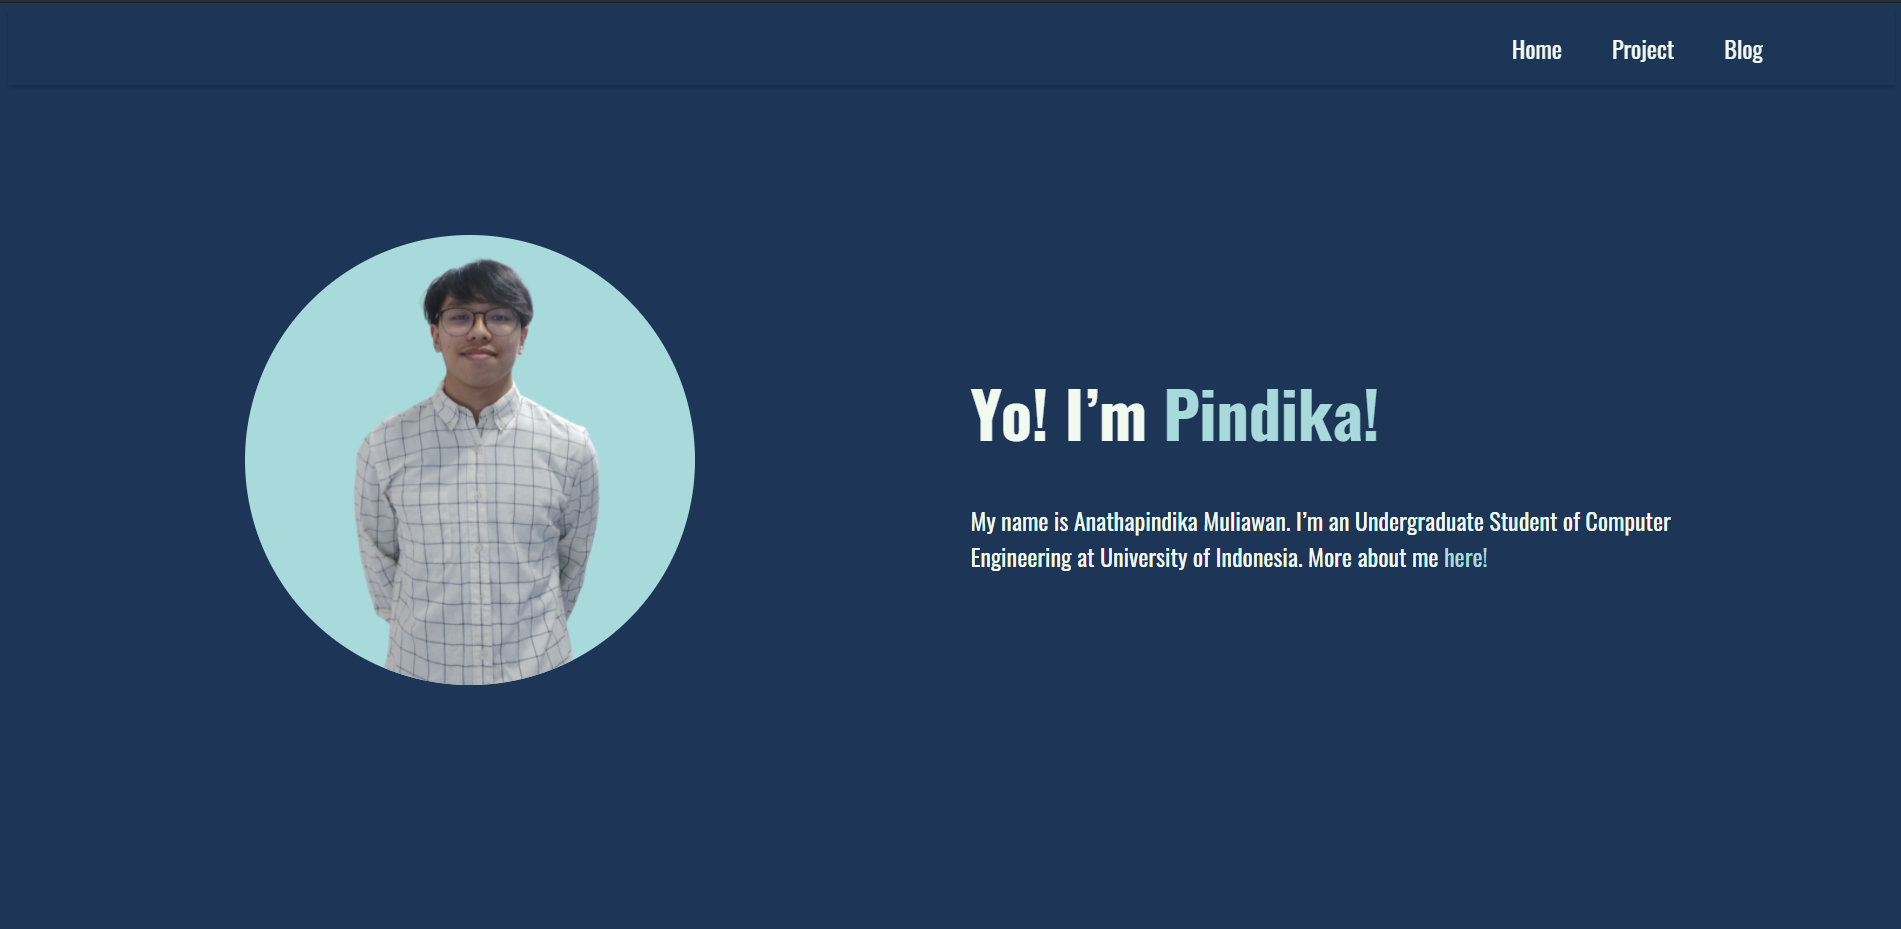
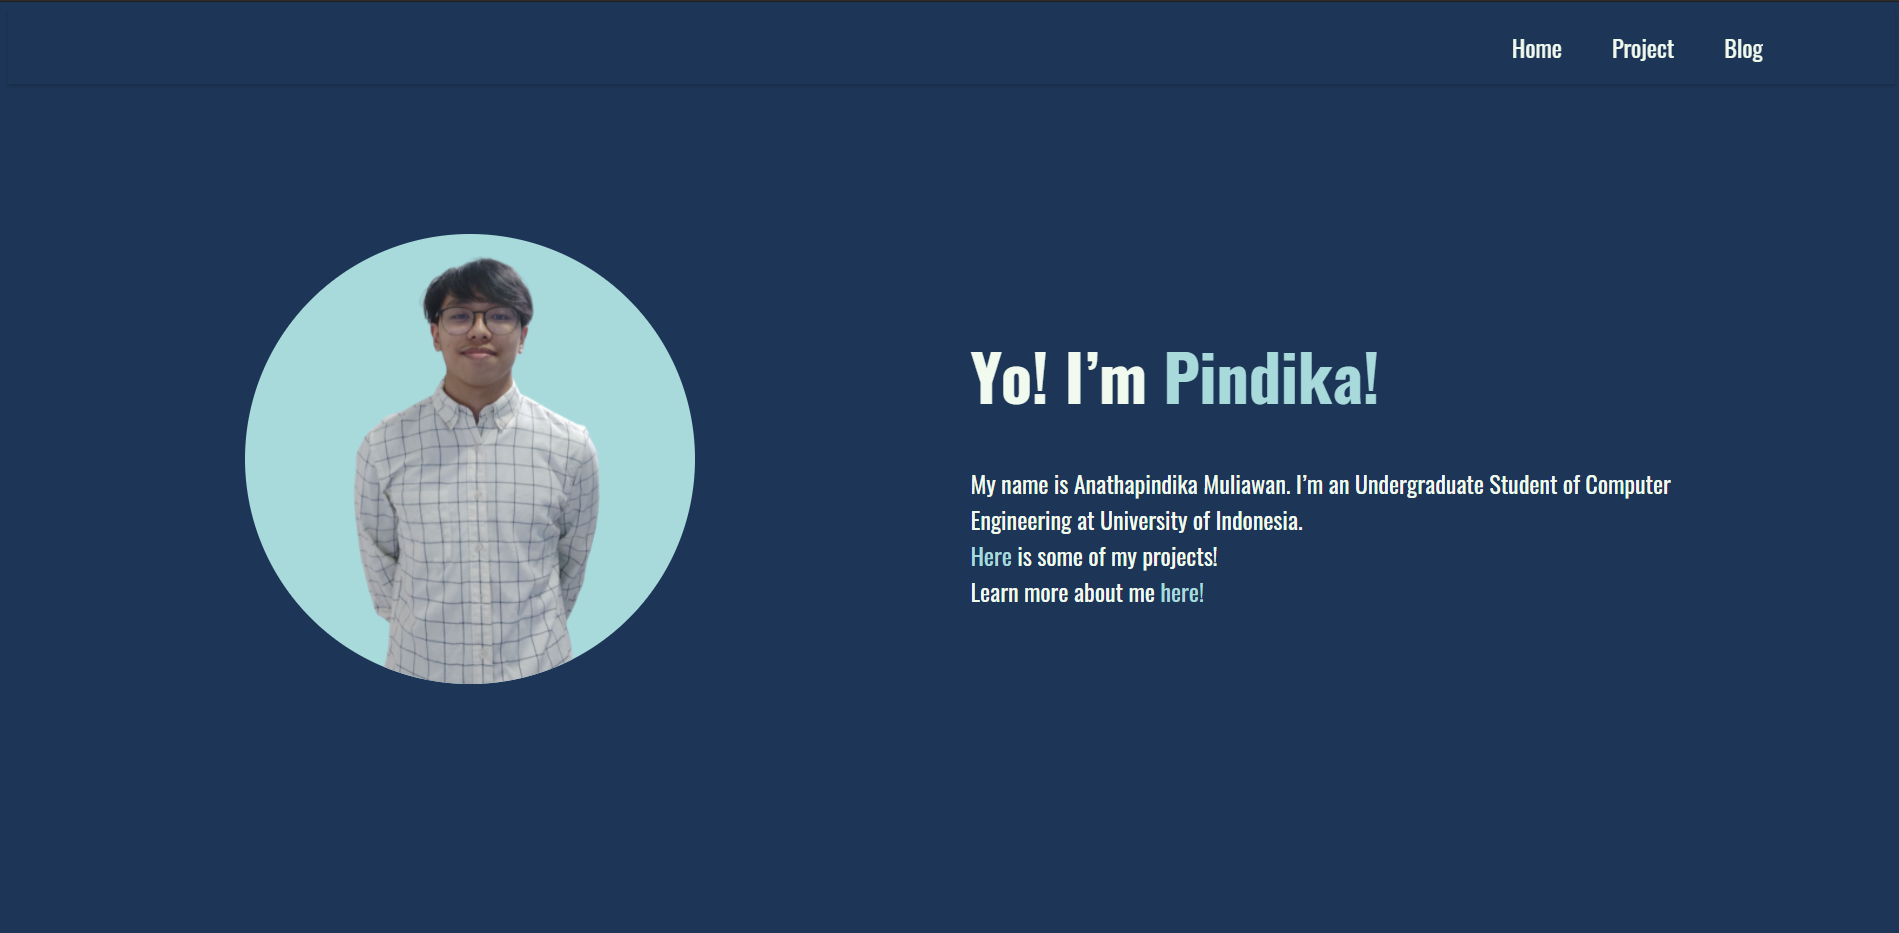
smooth scroll

diff --git a/src/components/HomePage.js b/src/components/HomePage.js
@@ -1,12 +1,24 @@
 import React from "react";
 import Foto from "../assets/foto.png";
 import { AiOutlineInstagram, AiOutlineLinkedin, AiOutlineYoutube, AiOutlineGithub, AiOutlineMail, AiOutlineTwitter } from "react-icons/ai";
-import { Link as LinkScroll } from "react-scroll";
+import { IoIosArrowUp } from "react-icons/io";
 import "./HomePage.css";
 import ProjectList from "./ProjectList";
 import { projects } from "./project";
 
 const HomePage = () => {
+    function scrollProject() {
+        window.scrollTo(0, 830);
+    }
+
+    function scrollAbout() {
+        window.scrollTo(0, 2000);
+    }
+
+    function scrollWin() {
+        window.scrollTo(0, 0);
+    }
+
     return (
         <div className="homepage" id="homepage">
             <div className="homepage-1">
@@ -20,32 +32,34 @@ const HomePage = () => {
                     <p>
                         My name is Anathapindika Muliawan. I’m an Undergraduate Student of Computer Engineering at University of Indonesia.
                         <br />
-                        <LinkScroll className="homepage-text-link" activeClass="active" to="project" spy={true} smooth={true}>
+                        <span className="homepage-text-link" activeClass="active" onClick={scrollProject}>
                             Here
-                        </LinkScroll>{" "}
+                        </span>{" "}
                         is some of my projects!
                         <br />
                         Learn more about me{" "}
-                        <LinkScroll className="homepage-text-link" activeClass="active" to="aboutme" spy={true} smooth={true}>
+                        <span className="homepage-text-link" activeClass="active" onClick={scrollAbout}>
                             here!
-                        </LinkScroll>
+                        </span>
                     </p>
                 </div>
             </div>
-            <div className="homepage-2" id="project">
+            <div className="homepage-2">
                 <h1>P R O J E C T</h1>
                 <ProjectList projects={projects} />
             </div>
-            <div className="homepage-3" id="aboutme">
+            <div className="homepage-3">
                 <h1>A B O U T&nbsp; M E</h1>
                 <div className="aboutme-container">
                     <div className="aboutme-container-text">
                         <div className="aboutme-text">
                             <p>
-                                Lorem ipsum dolor sit amet, consectetur adipiscing elit, sed do eiusmod tempor incididunt ut labore et dolore magna aliqua. Ut enim ad minim veniam, quis nostrud exercitation ullamco laboris nisi ut aliquip
-                                ex ea commodo consequat. Duis aute irure dolor in reprehenderit in voluptate velit esse cillum dolore eu fugiat nulla pariatur. Excepteur sint occaecat cupidatat non proident, sunt in culpa qui officia
-                                deserunt mollit anim id est laborum.
+                                My name is Anathapindika Muliawan. I'm a college student and a Wushu athlete for 12 years. I'm interested in Programming and Web Development. I love to make small projects to improve my skills. I work pretty
+                                well as a team. I know C/C++ Programming language and Python. I use React.Js and CSS to make websites.
                             </p>
+                        </div>
+                        <div>
+                            <p>Check out my socials!</p>
                         </div>
                         <div className="aboutme-icons">
                             <li>
@@ -85,6 +99,10 @@ const HomePage = () => {
                     </div>
                 </div>
             </div>
+            <p className="homepage-text-link top" activeClass="active" onClick={scrollWin}>
+                <IoIosArrowUp />
+                &nbsp;Back to top
+            </p>
         </div>
     );
 };

diff --git a/src/components/project.js b/src/components/project.js
@@ -5,7 +5,13 @@ import todolist from "../assets/todolist/todolist.png";
 import website from "../assets/website/website.png";
 
 export const projects = [
-    { id: 1, name: "Hangman Game in C", desc: "This is a Hangman Game using C Programming Language. This program is for mid term project in a group of two.", link: "https://github.com/pindisel/Proyek_Hangman", image: hangman },
+    {
+        id: 1,
+        name: "Hangman Game in C",
+        desc: "This is a Hangman Game using C Programming Language. This program is for mid term project in a group of two.",
+        link: "https://github.com/pindisel/Proyek_Hangman",
+        image: hangman,
+    },
     {
         id: 2,
         name: "Currency Converter in C",
@@ -27,5 +33,11 @@ export const projects = [
         link: "https://github.com/pindisel/to-do-list",
         image: todolist,
     },
-    { id: 5, name: "Personal Website", desc: "lorem ipsum..", link: "https://github.com/pindisel/website-pindika", image: website },
+    {
+        id: 5,
+        name: "Personal Website",
+        desc: "This project is made using React.Js framework and CSS for styling. This website is made to showcase my projects.",
+        link: "https://github.com/pindisel/website-pindika",
+        image: website,
+    },
 ];

diff --git a/src/App.js b/src/App.js
@@ -1,5 +1,5 @@
 import { Route, Switch } from "react-router-dom";
-import { Header, Footer, HomePage, ProjectPage, ProjectSingle, AchievementPage, ExperiencePage } from "./components";
+import { Header, Footer, HomePage, ProjectSingle, AchievementPage, ExperiencePage } from "./components";
 
 function App() {
     return (
@@ -7,7 +7,6 @@ function App() {
             <Header />
             <Switch>
                 <Route exact path="/" component={HomePage} />
-                <Route exact path="/project" component={ProjectPage} />
                 <Route exact path="/experience" component={ExperiencePage} />
                 <Route exact path="/achievement" component={AchievementPage} />
                 <Route exact path="/project/:name" component={ProjectSingle} />

diff --git a/src/components/Header.js b/src/components/Header.js
@@ -6,6 +6,9 @@ const Header = () => {
     function scrollWin() {
         window.scrollTo(0, 0);
     }
+    function scrollProject() {
+        window.scrollTo(0, 830);
+    }
     return (
         <div className="header">
             <ul>
@@ -15,7 +18,7 @@ const Header = () => {
                     </LinkRouter>
                 </li>
                 <li className="header-list">
-                    <LinkRouter className="header-link underline-transition" to="/project" onClick={scrollWin}>
+                    <LinkRouter className="header-link underline-transition" to="/" onClick={scrollProject}>
                         Project{" "}
                     </LinkRouter>
                 </li>

diff --git a/src/components/HomePage.css b/src/components/HomePage.css
@@ -32,6 +32,10 @@
 
 .homepage p {
     font-size: 1.5em;
+}
+
+.homepage-1 p,
+.homepage-3 p {
     padding-right: 20%;
 }
 
@@ -145,7 +149,7 @@
     height: 350px;
     background-color: #324766;
     display: flex;
-    max-width: 1600px;
+    max-width: 1500px;
     margin-left: auto;
     margin-right: auto;
 }
@@ -153,7 +157,6 @@
 .aboutme-container-text {
     display: flex;
     flex-direction: column;
-    flex: 2;
     margin-right: 3%;
     margin-left: 3%;
 }
@@ -201,4 +204,8 @@
     height: 350px;
     width: auto;
     border-radius: 50%;
+}
+
+.top {
+    text-align: center;
 }

diff --git a/public/index.html b/public/index.html
@@ -12,7 +12,7 @@
         <link rel="preconnect" href="https://fonts.gstatic.com" crossorigin />
         <link href="https://fonts.googleapis.com/css2?family=Oswald:wght@200;300;400;500;600;700&display=swap" rel="stylesheet" />
 
-        <title>Pindika's Portfolio</title>
+        <title>Website Pindika</title>
     </head>
     <body>
         <noscript>You need to enable JavaScript to run this app.</noscript>

diff --git a/src/components/index.js b/src/components/index.js
@@ -1,7 +1,6 @@
 export { default as HomePage } from "./HomePage";
 export { default as Header } from "./Header";
 export { default as Footer } from "./Footer";
-export { default as ProjectPage } from "./ProjectPage";
 export { default as ProjectList } from "./ProjectList";
 export { default as ProjectSingle } from "./ProjectSingle";
 export { default as AchievementPage } from "./AchievementPage";

diff --git a/src/components/ProjectSingle.css b/src/components/ProjectSingle.css
@@ -1,9 +1,6 @@
 .project-single {
     color: #f1faee;
-    display: flex;
-    flex-direction: column;
-    justify-content: center;
-    align-items: center;
+    text-align: center;
 }
 
 .project-single h1 {

diff --git a/src/index.css b/src/index.css
@@ -2,6 +2,10 @@
     font-family: "Oswald", sans-serif;
 }
 
+html {
+    scroll-behavior: smooth;
+}
+
 body {
     background-color: #1d3557;
 }

diff --git a/src/components/Footer.css b/src/components/Footer.css
@@ -9,4 +9,5 @@
     align-items: center;
     justify-content: center;
     background-color: #1d3557;
+    margin-top: auto;
 }
